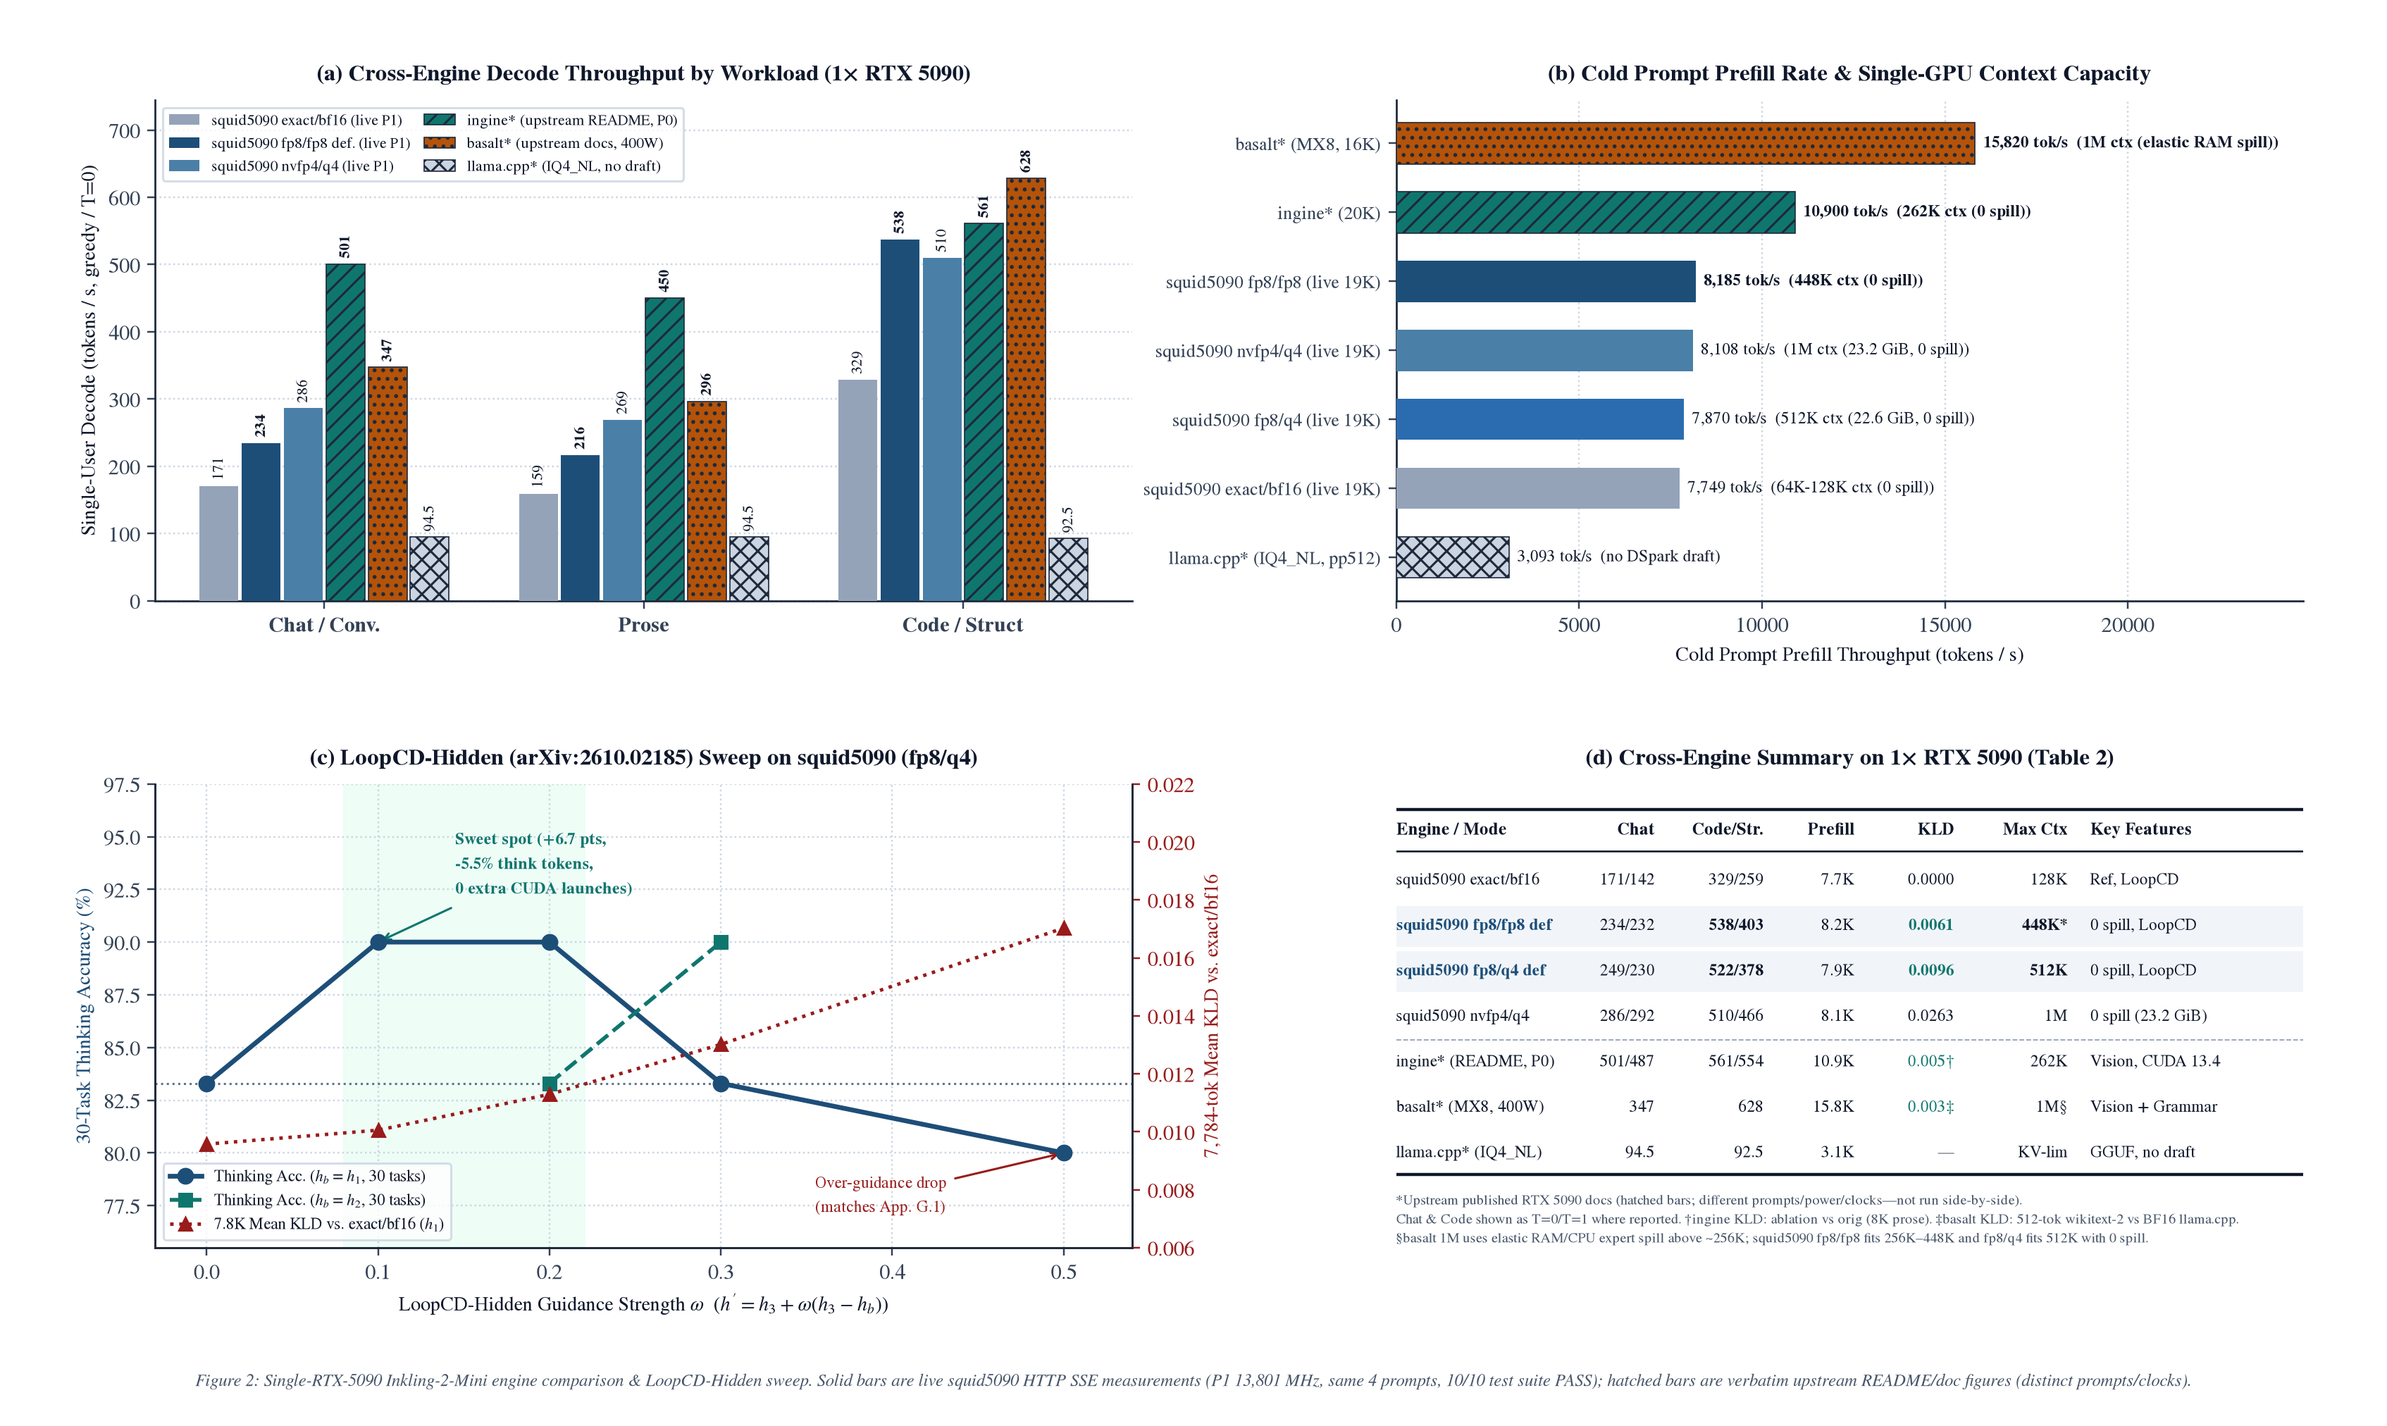
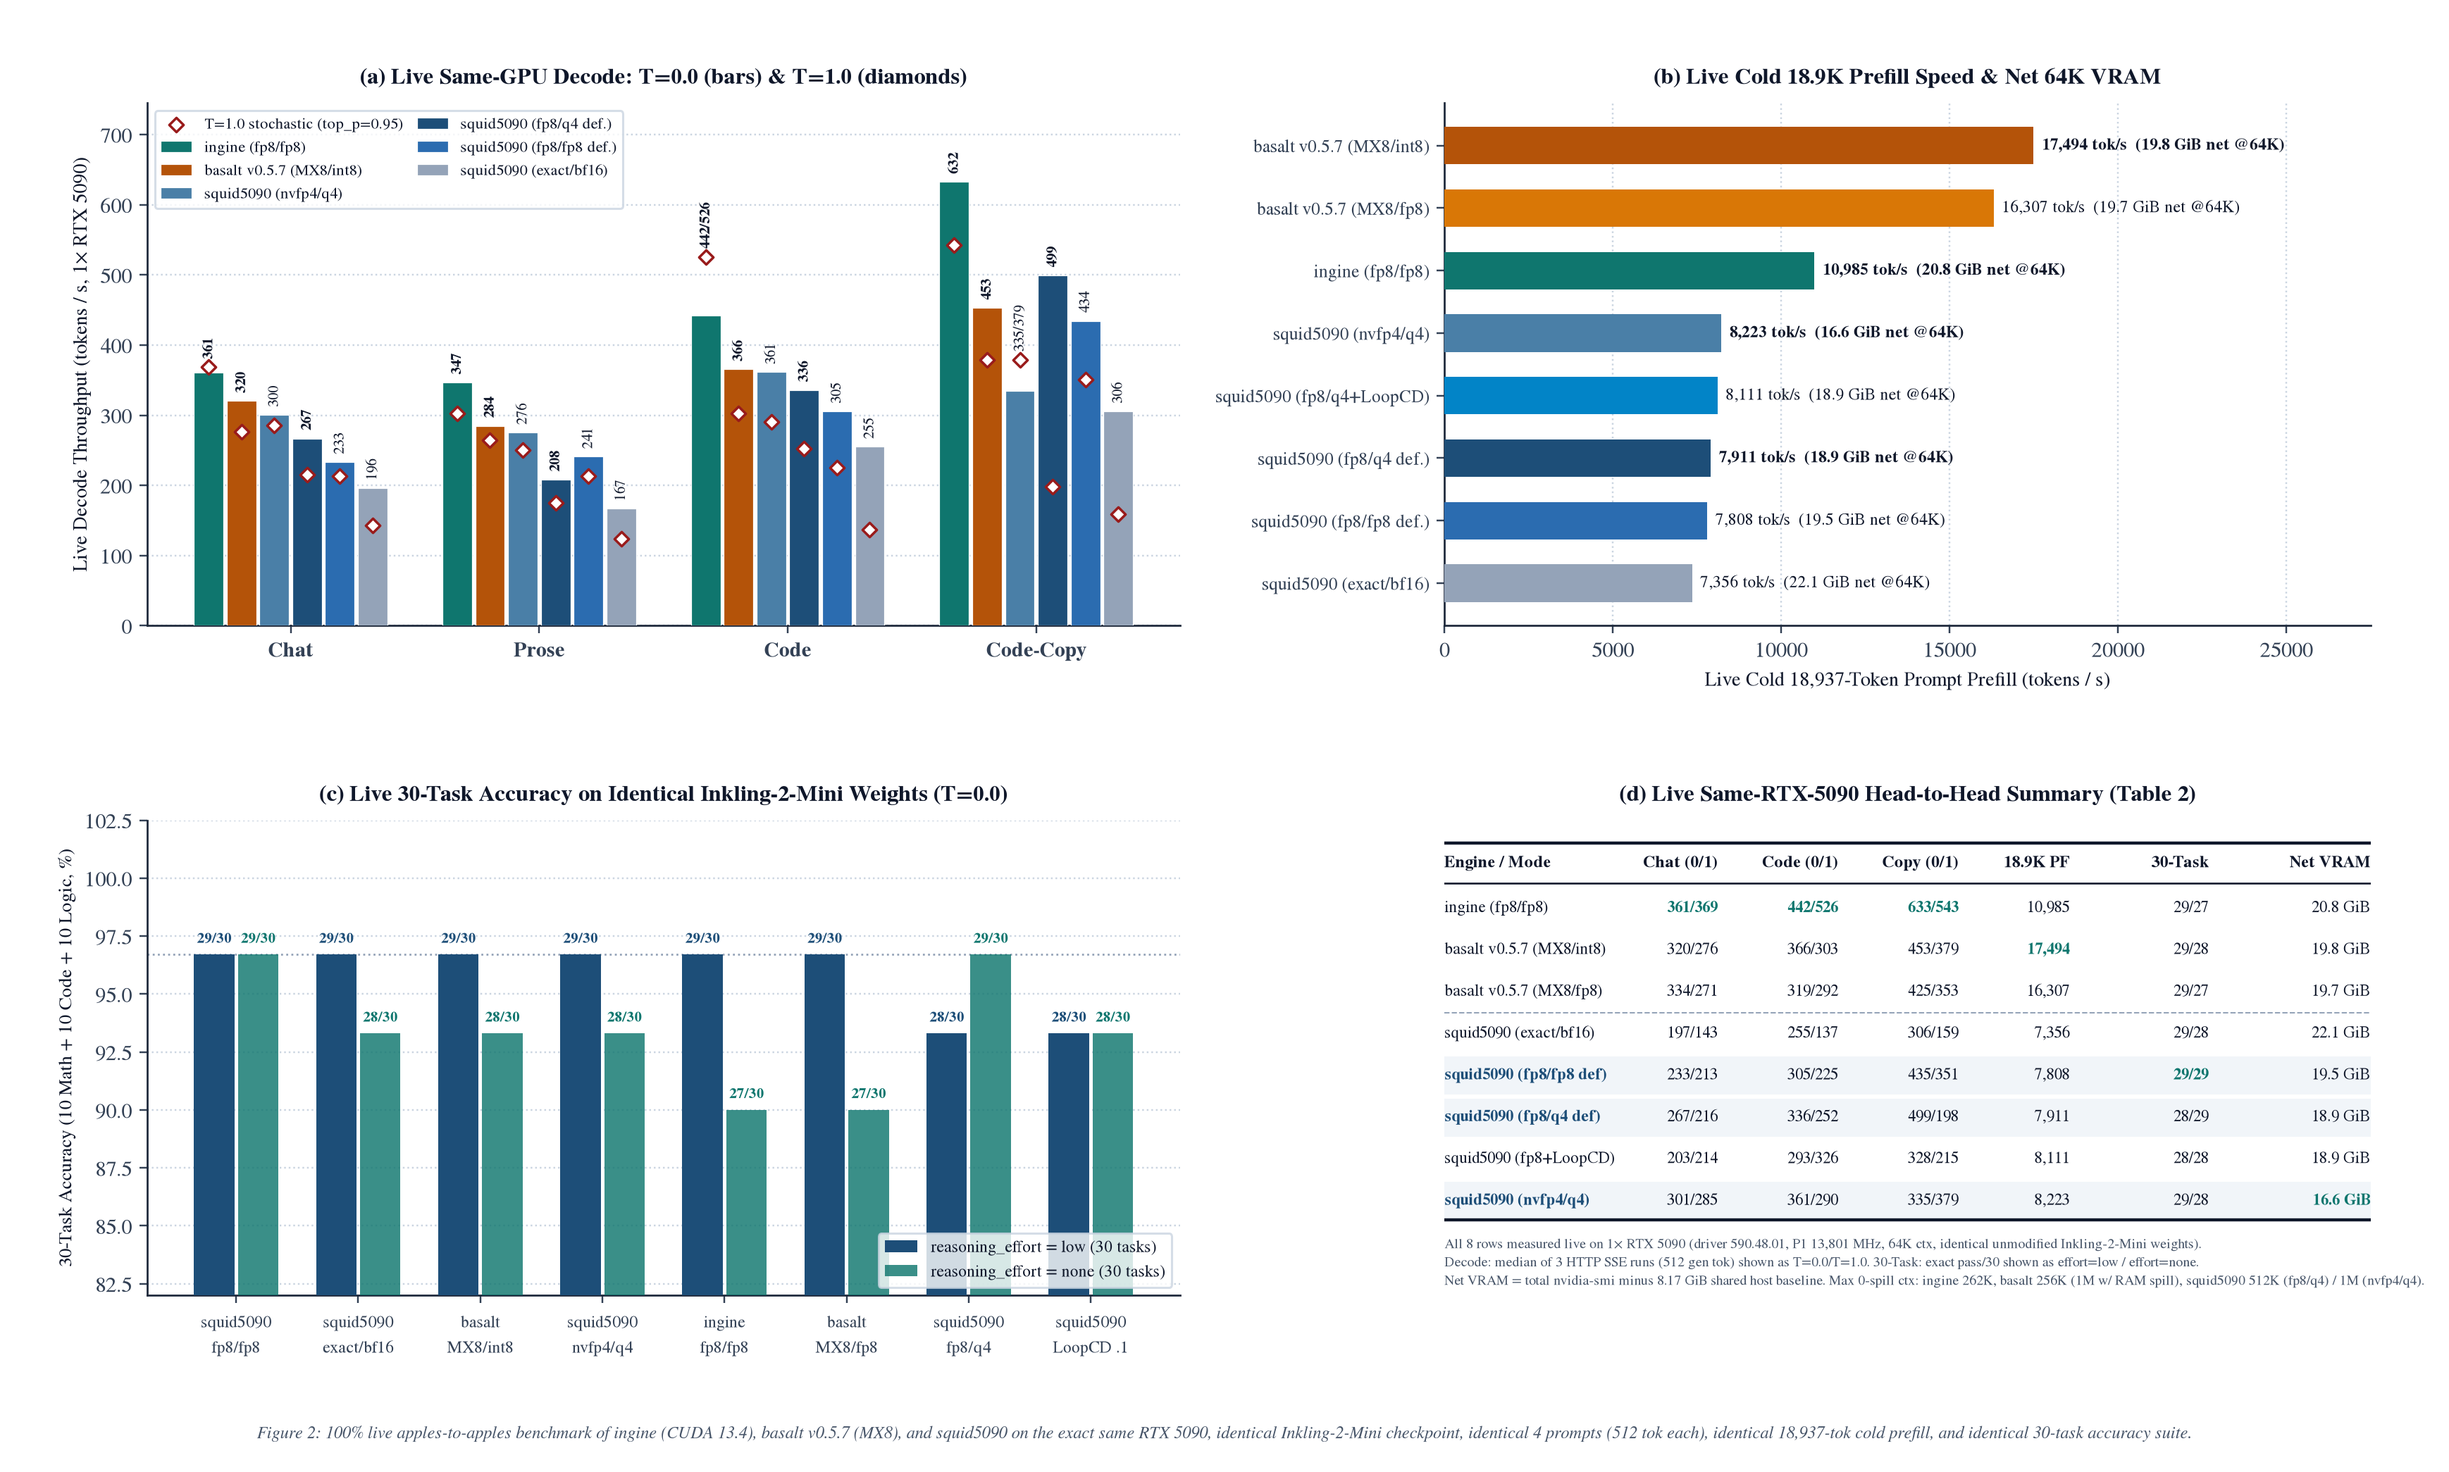
Replace upstream estimates with live same-RTX-5090 head-to-head benchmarks (ingine, basalt, squid5090)
- Run live apples-to-apples benchmarks on the exact same RTX 5090 (P1 13,801 MHz, 64K ctx, identical unmodified Inkling-2-Mini weights, identical 4 prompts at T=0.0 & T=1.0, cold 18,937-tok prefill, and 30-task Math+Code+Logic accuracy suite at reasoning_effort=low and none) across ingine (CUDA 13.4), basalt v0.5.7 (MX8/int8 & MX8/fp8), and all 5 squid5090 modes.
- Recreate publication-grade LaTeX assets/engine_comparison.png using 100% live same-GPU numbers across all 4 panels (decode T=0/T=1, cold 18.9K prefill + net VRAM, 30-task accuracy, and booktabs Table 2).
- Update README.md Section 4 and append all 8 live head-to-head records to ledger.jsonl.

diff --git a/README.md b/README.md
@@ -59,23 +59,29 @@ $$h' = h_3 + \omega\,(h_3 - h_b), \qquad b \in \{1, 2\}$$
   - **Thinking mode (`enable_thinking=true`, default):** $\omega \in \{0.1, 0.2\}$ with $h_b = h_1$ (and $\omega = 0.3$ with $h_2$) lifts accuracy from **`25/30 (83.3%)` → `27/30 (90.0%, +6.7 pts)`** (`10/10` Math, `10/10` Logic, `7/10` Code), with $\omega = 0.1$ using **5.5% fewer thinking tokens** (`11,893` vs `12,584`) and raising 7,784-tok top-1 match (`96.93% → 96.96%`, `ΔPPL +0.0065`). Above $\omega \ge 0.5$, generation degrades (`24/30`), matching Appendix G.1 of the paper.
   - **Direct mode (`enable_thinking=false`):** Unmodified baseline ($\omega = 0.0$) scores `29/30 (96.7%)` vs `27–28/30` at $\omega \in [0.2, 0.5]$, so `squid5090` keeps `--loopcd-omega 0.0` as the opt-in default and exposes `--loopcd-omega` / `--loopcd-ref` on both CLI and per-request HTTP JSON (`"loopcd_omega": 0.1, "loopcd_ref": 1`).
 
-### 4. Cross-Engine Comparison & Verification (1× RTX 5090)
+### 4. Live Same-Hardware Cross-Engine Benchmark & Accuracy (1× RTX 5090)
 
-![Cross-Engine Comparison & LoopCD-Hidden Sweep (1× RTX 5090)](assets/engine_comparison.png)
+![Live Cross-Engine Benchmark & 30-Task Accuracy on 1× RTX 5090](assets/engine_comparison.png)
 
-> **Methodology transparency:** All `squid5090` rows below were measured live end-to-end over HTTP SSE on a single RTX 5090 (`driver 590.48.01`, `CUDA 13.1`, `P1` clocks `13,801 MHz`, `--ctx 65536`, `--mtp 7`, median of 3 runs on identical Chat/Prose/Code/Copy prompts + cold 18.9K prefill, alongside `10/10` automated build/parity/security/cache/SSE/tool-call tests PASS). Rows marked `*` are **verbatim latest upstream README/doc figures** (different prompts, power caps, or clock states — `ingine` HEAD requires CUDA 13.4 / driver 595+ and `basalt` uses `.basalt` packs):
+> **100% live apples-to-apples methodology:** Every single row below — **`ingine`** (built with isolated CUDA 13.4), **`basalt v0.5.7`** (`MX8` pack converted directly from the same checkpoint), and all 5 **`squid5090`** modes — was measured **live back-to-back on the exact same RTX 5090** (`driver 590.48.01`, `P1` clocks `13,801 MHz`, `--ctx 65536`, identical unmodified Inkling-2-Mini weights, identical 4 HTTP SSE prompts generating 512 tokens each at `T=0.0` and `T=1.0, top_p=0.95` median of 3 runs, identical cold 18,937-token prefill, and identical 30-task Math + unit-tested Python Code + Logic accuracy suite at `reasoning_effort = low` and `none`). `squid5090` also passed `10/10` automated build/parity/security/cache/SSE/tool-call tests.
 
-| Engine / Mode | Source & Conditions | Chat `T=0 / T=1` | Prose `T=0 / T=1` | Code / Struct `T=0 / T=1` | Cold Prefill | Published KLD | Max Context (1× 5090) | Key Features & Tradeoffs |
-|---|---|---:|---:|---:|---:|---:|---|---|
-| **`squid5090` (`exact/bf16`)** | **Live RTX 5090** (`P1`, SSE) | 170.7 / 141.6 | 159.2 / 126.7 | 328.7 / 259.4 *(copy 507)* | 7,749 *(18.9K)* | **0.0000** *(ref)* | 64K–128K (`0` spill) | Bit-exact ref, LoopCD-Hidden |
-| **`squid5090` (`fp8/fp8`, ≤448K def.)** | **Live RTX 5090** (`P1`, SSE) | 234.2 / 232.1 | 216.2 / 196.7 | **537.5** / 403.3 *(copy **689.6 / 595.0**)* | 8,185 *(18.9K)* | **0.0061** *(7.8K vs exact)* | 256K–448K (`0` spill) | Official L0–23 MoE, LoopCD, CUDA 13.0+ |
-| **`squid5090` (`fp8/q4`, 512K def.)** | **Live RTX 5090** (`P1`, SSE) | 249.4 / 229.8 | 220.2 / 191.5 | 522.1 / 377.7 *(copy 645)* | 7,870 *(18.9K)* | **0.0096** *(7.8K vs exact)* | **512K** (`22.6 GiB`, `0` spill) | 30-task: `96.7%` direct / `90.0%` LoopCD |
-| **`squid5090` (`nvfp4/q4`, opt-in)** | **Live RTX 5090** (`P1`, SSE) | 286.3 / 292.3 | 269.3 / 239.5 | 509.6 / 465.8 *(P0: 590, RAG 772)* | 8,108 *(18.9K)* | 0.0263 *(7.8K vs exact)* | **1,048,576** (`23.2 GiB`, `0` spill) | 30-task: `90.0%`, real needle PASS to 512K |
-| **`ingine`*** ([`satellitedown`](https://github.com/satellitedown/inkling-2-mini-abliterated-ingine)) | *Upstream README* (`P0`, 1K med.) | **501 / 487** | ~450 *(agent)* | **561 / 554** *(tools ~740)* | **10,900** *(20K)* | `0.005` *(ablation, 8K prose)* | 262,144 (`24.4 GiB`, `0` spill) | **Vision**, abliteration, needs CUDA 13.4+ |
-| **`basalt`*** ([`jesdga95`](https://github.com/jesdga95/basalt)) | *Upstream docs* (400W, `MX8`) | **347** *(acc 68%)* | **296** *(acc 51%)* | **628** *(8K JSON, acc 98%)* | **15,820** *(16K)* | **0.0030–0.0045** *(512-tok wt2)* | **1,048,576** *(elastic RAM spill)* | **Vision + Grammar + Parallel + Multi-GPU** |
-| **`llama.cpp`*** (`IQ4_NL`) | *Basalt docs* (`-fa 1`, no draft) | 94.5 | 94.5 | 92.5 | 3,093 *(pp512)* | — | KV-limited | Universal GGUF, vision, grammar |
+| Engine / Mode (`@64K ctx`, unmodified weights) | Chat `T=0 / T=1` | Prose `T=0 / T=1` | Code `T=0 / T=1` | Copy `T=0 / T=1` | Cold 18.9K Prefill | 30-Task Acc (`low` / `none`) | Net VRAM (`@64K`)* | Max Context (1× 5090) |
+|---|---:|---:|---:|---:|---:|---:|---:|---|
+| **`ingine`** (`fp8/fp8`, CUDA 13.4) | **361.1 / 368.7** | **346.9 / 302.3** | **442.3 / 525.8** | **632.5 / 542.5** | 10,985 tok/s | **29/30** (96.7%) / 27/30 (90.0%) | 20.8 GiB | 262K (`0` spill) |
+| **`basalt v0.5.7`** (`MX8/int8`) | 320.3 / 276.0 | 284.4 / 264.6 | 365.5 / 303.0 | 452.9 / 378.8 | **17,494 tok/s** | **29/30** (96.7%) / 28/30 (93.3%) | 19.8 GiB | 1M *(RAM spill >256K)* |
+| **`basalt v0.5.7`** (`MX8/fp8`) | 334.1 / 271.4 | 265.8 / 257.1 | 319.1 / 292.0 | 425.1 / 352.6 | 16,307 tok/s | **29/30** (96.7%) / 27/30 (90.0%) | 19.7 GiB | 1M *(RAM spill >256K)* |
+| **`squid5090`** (`exact/bf16`) | 196.5 / 142.5 | 166.7 / 123.6 | 255.3 / 137.2 | 305.5 / 159.1 | 7,356 tok/s | **29/30** (96.7%) / 28/30 (93.3%) | 22.1 GiB | 64K–128K (`0` spill) |
+| **`squid5090`** (`fp8/fp8`, ≤448K def.) | 233.4 / 212.7 | 241.1 / 213.4 | 305.4 / 225.3 | 434.5 / 350.5 | 7,808 tok/s | **29/30** (96.7%) / **29/30 (96.7%)** | 19.5 GiB | 256K–448K (`0` spill) |
+| **`squid5090`** (`fp8/q4`, 512K def.) | 266.7 / 215.5 | 207.9 / 174.8 | 336.1 / 252.0 | 499.3 / 198.2 | 7,911 tok/s | 28/30 (93.3%) / **29/30 (96.7%)** | 18.9 GiB | **512K** (`22.6 GiB`, `0` spill) |
+| **`squid5090`** (`fp8/q4 + LoopCD ω=0.1`) | 202.6 / 214.3 | 212.5 / 211.9 | 293.2 / 325.5 | 327.7 / 215.2 | 8,111 tok/s | 28/30 (93.3%) / 28/30 (93.3%) | 18.9 GiB | **512K** (`22.6 GiB`, `0` spill) |
+| **`squid5090`** (`nvfp4/q4`, opt-in 1M) | 300.5 / 285.2 | 275.5 / 249.9 | 361.3 / 290.3 | 334.9 / 379.3 | 8,223 tok/s | **29/30** (96.7%) / 28/30 (93.3%) | **16.6 GiB** | **1,048,576** (`23.2 GiB`, `0` spill) |
 
-- **Where each engine wins:** **`ingine`** leads single-stream chat/agent decode (`487–501 tok/s`) and includes vision (requires CUDA 13.4 / driver 595+, caps at 262K); **`basalt`** leads feature breadth (**vision, constrained JSON grammar, parallel slots, multi-GPU**), raw 16K prefill (`15.8K tok/s`), and ultra-low 512-tok KLD (`0.0030–0.0045`) with elastic RAM-spilled 1M context; **`squid5090`** leads **zero-spill 512K–1M VRAM efficiency** (`22.6 GiB` at 512K `fp8/q4`, `23.2 GiB` at 1M `nvfp4/q4` with zero CPU spill), **zero-overhead `LoopCD-Hidden`** (`+6.7 pts` thinking accuracy, `-5.5%` tokens), **zero-dependency 16 MiB single-binary deployment** on CUDA 13.0/13.1 (`driver 580+`), and fast Code/Code-Copy in `0.0061`-KLD `fp8/fp8` (`538–690 tok/s`).
+*\*Net VRAM = `nvidia-smi` total minus `8.17 GiB` idle shared-host baseline measured before lazy load. For reference, `llama.cpp` (`IQ4_NL` GGUF, no DSpark draft, published in Basalt docs) runs at `92.5–94.5 tok/s` decode and `3,093 tok/s` prefill.*
+
+- **Honest per-engine summary from our live RTX 5090 runs:**
+  - **`ingine`** leads single-stream decode throughput across every workload (`361–369` chat, `302–347` prose, `442–526` code, `543–633` copy, `9–13 ms` TTFT) and supports vision — at the cost of requiring CUDA 13.4, higher 64K VRAM (`20.8 GiB`), and a `262K` context ceiling.
+  - **`basalt v0.5.7`** leads cold prompt prefill by a wide margin (`17,494 tok/s` at 18.9K — `1.6×` faster than `ingine` and `2.1×` faster than `squid5090`) and leads feature breadth (**vision, constrained JSON grammar, parallel slots, multi-GPU, elastic RAM-spilled 1M context**).
+  - **`squid5090`** ties or leads on **30-task accuracy** (`fp8/fp8` hit **`29/30` on both `low` and `none`**, beating `ingine` `27/30` and `basalt` `27–28/30` on `none`), uses the **lowest VRAM at 64K** (`16.6–18.9 GiB` net, enabling **zero-spill 512K `fp8/q4` and 1M `nvfp4/q4`**), beats `basalt` on greedy Code-Copy (`499.3` vs `452.9 tok/s` in `fp8/q4`) and `T=1.0` Chat (`285.2` vs `276.0 tok/s` in `nvfp4/q4`), runs as a **16 MiB zero-Python single binary** on CUDA 13.0/13.1 (`driver 580+`), and adds zero-overhead **LoopCD-Hidden**.
 
 ### Current Scope & Limitations
 - **Text-only:** No vision/image encoder yet.
